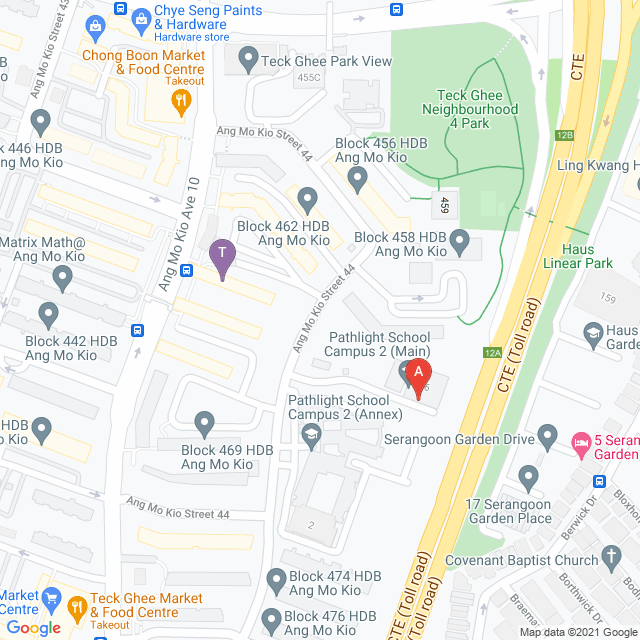
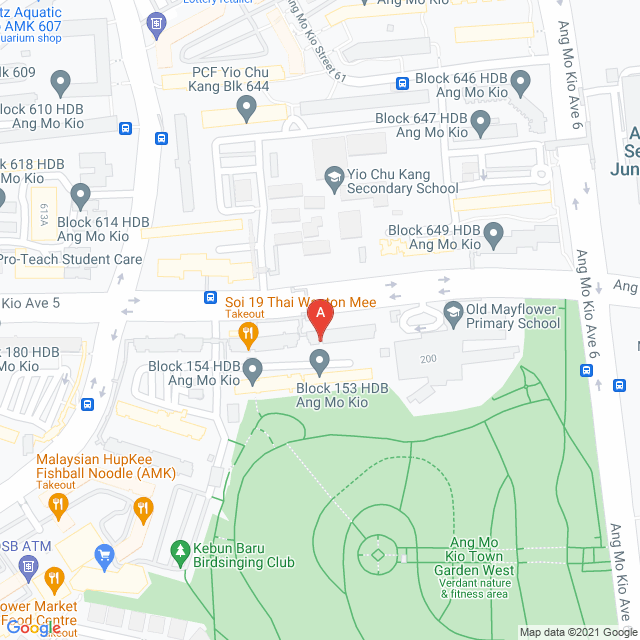
added maps and recommendations

diff --git a/website/templates/buildings.html b/website/templates/buildings.html
@@ -47,7 +47,9 @@ Block {{building.block}}
                 <p>REMAINING LEASE</p>
                 <p>LEASE COMMENCE YEAR</p>
                 <p>STOREY RANGE</p>
+                {% if amenities %}
                 <p>AMENITIES</p>
+                {% endif %}
                 <p>CONTACT EMAIL</p>
                 <p> </p>
 
@@ -87,9 +89,11 @@ Block {{building.block}}
                     <li class = "list-group-item">
                         {{building.storey_range}}
                     </li>
+                    {% if amenities %}
                     <li class = "list-group-item">
                         {{building.num_amenities}} {{building.amenities_type}}(s) in the vicinity within 1 km
                     </li>
+                    {% endif %}
                     <li class = "list-group-item">
                        <a href="mailto:{{building.contact}}">{{building.contact}}</a> 
                     </li>

diff --git a/website/templates/most_liked.html b/website/templates/most_liked.html
@@ -34,7 +34,6 @@ Most Liked Buildings
             <p>RESALE PRICE</p>
             <p>FLAT TYPE</p>
             <p>FLOOR AREA (SQM)</p>
-            <p>AMENITIES</p>
             <p> </p>
         </div>
         <div class="v1"></div>
@@ -44,9 +43,8 @@ Most Liked Buildings
             <p>${{display.resale_price}}</p>
             <p>{{display.flat_type}}</p>
             <p>{{display.floor_area_sqm}} sqm</p>
-            <p>School(1km), Coffee Shop(800m), MRT(2km)</p>
             <div class="links">
-                <a href="/buildings/{{display.block}}">View More</a>
+                <a href="/buildings2/{{display.block}}/{{display.id}}">View More</a>
                 <a href="mailto:{{display.contact}}">Contact</a>
                 {% if not user.is_guest %}
                     <a href="#" onclick="add_favourites({{display.id}})">Add to Favorites</a>

diff --git a/website/static/styles/buildings.css b/website/static/styles/buildings.css
@@ -40,7 +40,7 @@ h1 {
     /* height: 400px; */
     width: 100vw;
     justify-items: center;
-    margin:0;
+    margin-top: 2rem;
 }
 
 .building-img {

diff --git a/website/views.py b/website/views.py
@@ -425,32 +425,41 @@ def preferences():
 
 @views.route("/home")
 def home():
-    list_of_favourited_buildings = sorted(db.session.query(building.id, func.count(
-        User.id)).join(building.favourited_by).group_by(building.id).all(), key=lambda x: x[1])
-    first_ten = list_of_favourited_buildings[:10]
-    flag = False
-    args = request.args
-    try:
-        email = args['email']
-        print(email)
-        guest = User.query.filter_by(email=email).first()
-        flag = True
-    except:
-        pass
+    # list_of_favourited_buildings = sorted(db.session.query(building.id, func.count(
+    #     User.id)).join(building.favourited_by).group_by(building.id).all(), key=lambda x: x[1])
+    # first_ten = list_of_favourited_buildings[:10]
+    # flag = False
+    # args = request.args
+    # try:
+    #     email = args['email']
+    #     print(email)
+    #     guest = User.query.filter_by(email=email).first()
+    #     flag = True
+    # except:
+    #     pass
+    
+    mostFavourited = db.session.execute(f"SELECT *\
+                                    FROM favourites f, building b\
+                                    WHERE f.building_id=b.id\
+                                    GROUP BY f.building_id\
+                                    HAVING COUNT(*) > 1").all()
+    for i in mostFavourited:
+        print(i.building_id)
 
-    print(args)
+    # print(args)
     # convert from list of numbers into list of buildings
-    to_return = []
-    for i in first_ten:
-        building_id = i[0]
-        temp_building = building.query.filter_by(id=building_id).first()
-        to_return.append(temp_building)
+    # to_return = []
+    # for i in first_ten:
+    #     building_id = i[0]
+    #     temp_building = building.query.filter_by(id=building_id).first()
+    #     to_return.append(temp_building)
 
-    if not flag:
-        return render_template("most_liked.html", user=current_user, to_display=to_return)
-    else:
-        print(guest)
-        return render_template("most_liked.html", user=guest, to_display=to_return)
+    # if not flag:
+    #     return render_template("most_liked.html", user=current_user, to_display=to_return)
+    # else:
+    #     print(guest)
+    #     return render_template("most_liked.html", user=guest, to_display=to_return)
+    return render_template("most_liked.html", user=current_user, to_display=mostFavourited)
 
 # to calculate results
 @views.route("/calc", methods=["POST", "GET"])
@@ -664,6 +673,8 @@ def faq3():
 def buildings(block, id):
     q = db.session.execute(f"SELECT * FROM recommendation r, building b WHERE b.id={id} AND b.id=r.building_id").first()
 
+    print(q)
+
     if q.lat and q.lng != None:
         latitude = q.lat
         longitude = q.lng
@@ -680,7 +691,33 @@ def buildings(block, id):
     # fName = f"url_for('static', filename='Assets/map_img/{str(current_user.get_id())}.jpg')"
     # fileName = os.path.join('static', 'Assets', 'map_img', f'{current_user.get_id()}.jpg')
     # print(fileName)
-    return render_template("buildings.html", user=current_user, building=q)
+    return render_template("buildings.html", user=current_user, building=q, amenities=True)
+
+
+@views.route("/buildings2/<block>/<id>")
+def buildings2(block, id):
+    q = db.session.execute(
+        f"SELECT * FROM building b WHERE b.id={id}").first()
+
+    print(q)
+
+    if q.lat and q.lng != None:
+        latitude = q.lat
+        longitude = q.lng
+    else:
+        recommender = Recommender(None)
+        addr, latitude, longitude = recommender.getLatLng(
+            "block " + q.block + " " + q.street_name)
+        db.session.execute(
+            f"UPDATE building SET lat={latitude}, lng={longitude} WHERE id={q.id}")
+
+    marker = Marker(None, latitude, longitude)
+    marker.setMarkers()
+    # fileName = "'" + f'Assets/map_img/{str(current_user.get_id())}.jpg' + "'"
+    # fName = f"url_for('static', filename='Assets/map_img/{str(current_user.get_id())}.jpg')"
+    # fileName = os.path.join('static', 'Assets', 'map_img', f'{current_user.get_id()}.jpg')
+    # print(fileName)
+    return render_template("buildings.html", user=current_user, building=q, amenities=False)
 
 
 ##########################################################################################################################################

diff --git a/website/Marker.py b/website/Marker.py
@@ -21,10 +21,13 @@ class Marker():
         self.fromLng = fromLng
 
     def setMarkers(self):
-        print(self.amenityList)
-        amenityList = json.loads(self.amenityList)
-        
-        markerList = self.createMarkers(amenityList)
+        if self.amenityList != None:
+            print(self.amenityList)
+            amenityList = json.loads(self.amenityList)
+            
+            markerList = self.createMarkers(amenityList)
+        else:
+            markerList = self.createSingleMarker()
 
         result = self.client.static_map(size=[900, 900], zoom=17, scale=1, maptype="roadmap", markers=markerList)
 
@@ -40,3 +43,6 @@ class Marker():
         markerList.append(StaticMapMarker(locations=[(self.fromLat, self.fromLng)], color="purple", size="large", label="T"))
 
         return markerList
+
+    def createSingleMarker(self):
+        return [StaticMapMarker(locations=[(self.fromLat, self.fromLng)], color="red", size="large", label="A")]
